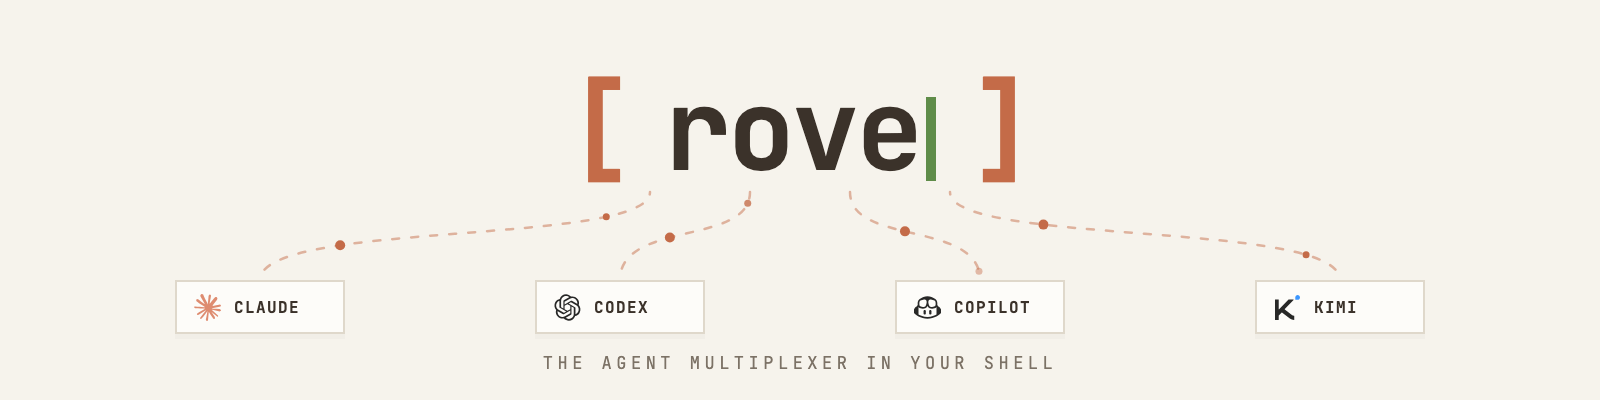
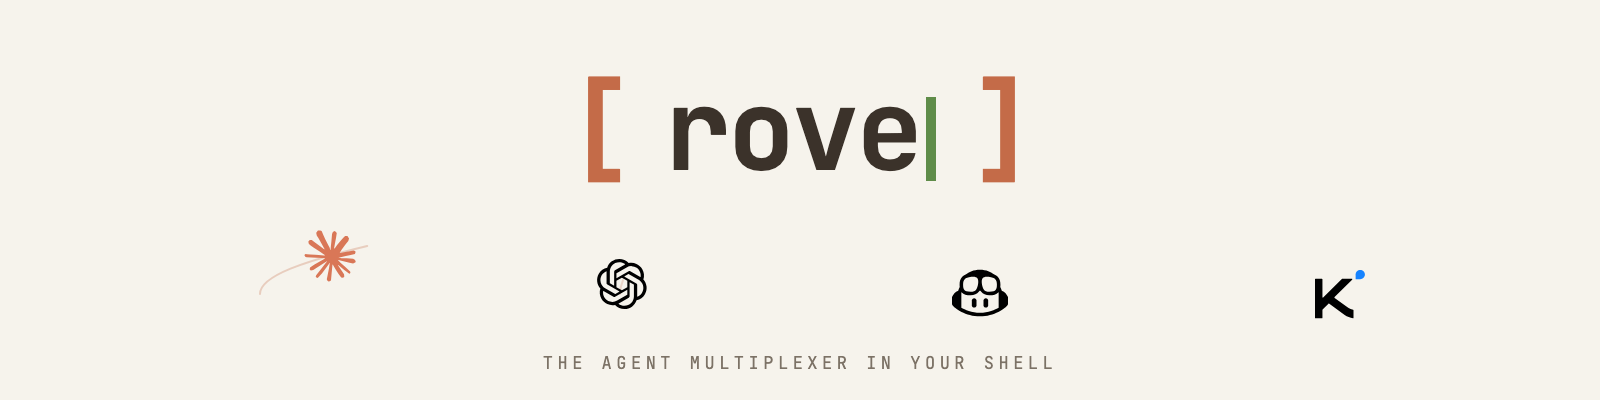
feat: animate agent marks into the Rove wordmark
Remove the engine labels, cards, and proxy particles from the bracket-chip banner. Move each supported agent mark itself along a curved path into a corresponding letter and keep the loop compact for README delivery.

diff --git a/packages/branding/src/BracketChip.tsx b/packages/branding/src/BracketChip.tsx
@@ -1,14 +1,14 @@
-import { AbsoluteFill, Img, interpolate, spring, staticFile, useCurrentFrame, useVideoConfig } from "remotion"
+import { AbsoluteFill, Easing, Img, interpolate, staticFile, useCurrentFrame } from "remotion"
 import { colors, monoStack } from "./colors"
 
 // Concept 1 — Bracket Chip [ rove ]
-// Supported engines arrive as terminal tabs on one rail, then converge on Rove.
+// Supported engine marks travel directly into the letters of the Rove wordmark.
 
 const agents = [
-  { label: "CLAUDE", file: "claude.svg", x: 260, targetX: 650 },
-  { label: "CODEX", file: "codex.svg", x: 620, targetX: 750 },
-  { label: "COPILOT", file: "copilot.svg", x: 980, targetX: 850 },
-  { label: "KIMI", file: "kimi.svg", x: 1340, targetX: 950 },
+  { id: "claude", file: "claude.svg", startX: 260, targetX: 688, size: 54 },
+  { id: "codex", file: "codex.svg", startX: 620, targetX: 763, size: 52 },
+  { id: "copilot", file: "copilot.svg", startX: 980, targetX: 838, size: 56 },
+  { id: "kimi", file: "kimi.svg", startX: 1340, targetX: 913, size: 52 },
 ] as const
 
 const clamp = {
@@ -26,87 +26,73 @@ const pointOnCurve = (startX: number, endX: number, progress: number) => {
     3 * inverse * progress ** 2 * control2X +
     progress ** 3 * endX
   const y =
-    inverse ** 3 * 280 +
-    3 * inverse ** 2 * progress * 220 +
-    3 * inverse * progress ** 2 * 246 +
-    progress ** 3 * 192
+    inverse ** 3 * 294 +
+    3 * inverse ** 2 * progress * 238 +
+    3 * inverse * progress ** 2 * 214 +
+    progress ** 3 * 126
 
   return { x, y }
 }
 
-const AgentFlows: React.FC<{ frame: number }> = ({ frame }) => {
-  const reveal = interpolate(frame, [2, 18], [0, 1], clamp)
-  const flowOpacity = interpolate(frame, [14, 22], [0, 1], clamp)
-
+const MovingAgentIcons: React.FC<{ frame: number }> = ({ frame }) => {
   return (
     <AbsoluteFill aria-hidden style={{ overflow: "hidden" }}>
       <svg width="1600" height="400" viewBox="0 0 1600 400" style={{ position: "absolute", inset: 0 }}>
         {agents.map((agent, index) => {
-          const path = `M ${agent.x} 280 C ${agent.x} 220 ${agent.targetX} 246 ${agent.targetX} 192`
-          const flowFrame = Math.max(0, frame - 18)
+          const start = 12 + index * 6
+          const progress = interpolate(frame, [start, start + 40], [0, 1], {
+            ...clamp,
+            easing: Easing.inOut(Easing.cubic),
+          })
+          const trailOpacity = interpolate(progress, [0, 0.08, 0.82, 1], [0, 0.28, 0.28, 0], clamp)
 
           return (
-            <g key={agent.label}>
-              <path
-                d={path}
-                fill="none"
-                stroke={colors.blue}
-                strokeWidth="2.5"
-                strokeLinecap="round"
-                strokeDasharray="7 12"
-                strokeDashoffset={-flowFrame * 0.8}
-                opacity={reveal * 0.48}
-              />
-              {[0, 0.5].map((phase) => {
-                const progress = ((flowFrame / 48 + index * 0.13 + phase) % 1 + 1) % 1
-                const point = pointOnCurve(agent.x, agent.targetX, progress)
-                const edgeFade = Math.min(progress / 0.12, (1 - progress) / 0.1, 1)
-
-                return (
-                  <circle
-                    key={phase}
-                    cx={point.x}
-                    cy={point.y}
-                    r={phase === 0 ? 5 : 3.5}
-                    fill={colors.blue}
-                    opacity={flowOpacity * edgeFade}
-                  />
-                )
-              })}
-            </g>
+            <path
+              key={agent.id}
+              d={`M ${agent.startX} 294 C ${agent.startX} 238 ${agent.targetX} 214 ${agent.targetX} 126`}
+              fill="none"
+              stroke={colors.blue}
+              strokeWidth="2"
+              strokeLinecap="round"
+              pathLength={1}
+              strokeDasharray={1}
+              strokeDashoffset={1 - progress}
+              opacity={trailOpacity}
+            />
           )
         })}
       </svg>
 
-      {agents.map((agent) => {
+      {agents.map((agent, index) => {
+        const start = 12 + index * 6
+        const progress = interpolate(frame, [start, start + 40], [0, 1], {
+          ...clamp,
+          easing: Easing.inOut(Easing.cubic),
+        })
+        const point = pointOnCurve(agent.startX, agent.targetX, progress)
+        const returnOpacity = interpolate(frame, [92, 112], [0, 1], clamp)
+        const movingOpacity = interpolate(progress, [0, 0.82, 1], [1, 1, 0], clamp)
+        const isReturning = frame >= 92
+        const x = isReturning ? agent.startX : point.x
+        const y = isReturning ? 294 : point.y
+        const scale = isReturning ? 1 : interpolate(progress, [0, 0.7, 1], [1, 0.88, 0.2], clamp)
+
         return (
-          <div
-            key={agent.label}
+          <Img
+            key={agent.id}
+            src={staticFile(`agent-logos/${agent.file}`)}
+            alt=""
             style={{
               position: "absolute",
-              left: agent.x - 85,
-              top: 280,
-              width: 170,
-              height: 54,
-              display: "flex",
-              alignItems: "center",
-              gap: 13,
-              padding: "0 17px",
-              boxSizing: "border-box",
-              backgroundColor: colors.bgSoft,
-              border: `2px solid ${colors.border}`,
-              boxShadow: "0 5px 0 rgba(59, 50, 42, 0.025)",
-              opacity: reveal,
-              translate: `0 ${8 * (1 - reveal)}px`,
+              left: x - agent.size / 2,
+              top: y - agent.size / 2,
+              width: agent.size,
+              height: agent.size,
+              objectFit: "contain",
+              opacity: isReturning ? returnOpacity : movingOpacity,
+              scale,
             }}
-          >
-            <Img
-              src={staticFile(`agent-logos/${agent.file}`)}
-              alt=""
-              style={{ width: 27, height: 27, objectFit: "contain", opacity: 0.84 }}
-            />
-            <span style={{ color: colors.fg, fontSize: 16, fontWeight: 700, letterSpacing: 1.4 }}>{agent.label}</span>
-          </div>
+          />
         )
       })}
     </AbsoluteFill>
@@ -115,27 +101,10 @@ const AgentFlows: React.FC<{ frame: number }> = ({ frame }) => {
 
 export const BracketChip: React.FC = () => {
   const frame = useCurrentFrame()
-  const { fps } = useVideoConfig()
-
-  const leftBracket = spring({ frame: frame - 4, fps, config: { damping: 12, stiffness: 180 } })
-  const rightBracket = spring({ frame: frame - 10, fps, config: { damping: 12, stiffness: 180 } })
-
-  const word = "rove"
-  const typeStart = 12
-  const perChar = 5
-  const chars = Math.max(0, Math.floor((frame - typeStart) / perChar))
-  const typed = word.slice(0, Math.min(chars, word.length))
-
-  const cursorOn = Math.floor(frame / 12) % 2 === 0 && frame > typeStart
-
-  const leftX = interpolate(leftBracket, [0, 1], [-60, 0])
-  const rightX = interpolate(rightBracket, [0, 1], [60, 0])
-  const leftOpacity = interpolate(leftBracket, [0, 1], [0, 1])
-  const rightOpacity = interpolate(rightBracket, [0, 1], [0, 1])
 
   return (
     <AbsoluteFill style={{ backgroundColor: colors.bg, fontFamily: monoStack }}>
-      <AgentFlows frame={frame} />
+      <MovingAgentIcons frame={frame} />
       <div
         style={{
           position: "absolute",
@@ -152,9 +121,9 @@ export const BracketChip: React.FC = () => {
           color: colors.fg,
         }}
       >
-        <span style={{ color: colors.blue, translate: `${leftX}px 0`, opacity: leftOpacity }}>[</span>
+        <span style={{ color: colors.blue }}>[</span>
         <span style={{ minWidth: 300, textAlign: "center", display: "inline-block" }}>
-          <span>{typed}</span>
+          <span>rove</span>
           <span
             style={{
               display: "inline-block",
@@ -163,11 +132,11 @@ export const BracketChip: React.FC = () => {
               marginLeft: 6,
               verticalAlign: "middle",
               background: colors.green,
-              opacity: cursorOn ? 1 : 0,
+              opacity: 1,
             }}
           />
         </span>
-        <span style={{ color: colors.blue, translate: `${rightX}px 0`, opacity: rightOpacity }}>]</span>
+        <span style={{ color: colors.blue }}>]</span>
       </div>
       <div
         style={{

diff --git a/.changeset/bracket-chip-agent-logos.md b/.changeset/bracket-chip-agent-logos.md
@@ -2,4 +2,4 @@
 "@sma1lboy/rove": patch
 ---
 
-Refresh the README bracket-chip banner with animated curved streams for the built-in Claude, Codex, Copilot, and Kimi engines.
+Refresh the README bracket-chip banner with the Claude, Codex, Copilot, and Kimi marks flowing directly into Rove.
